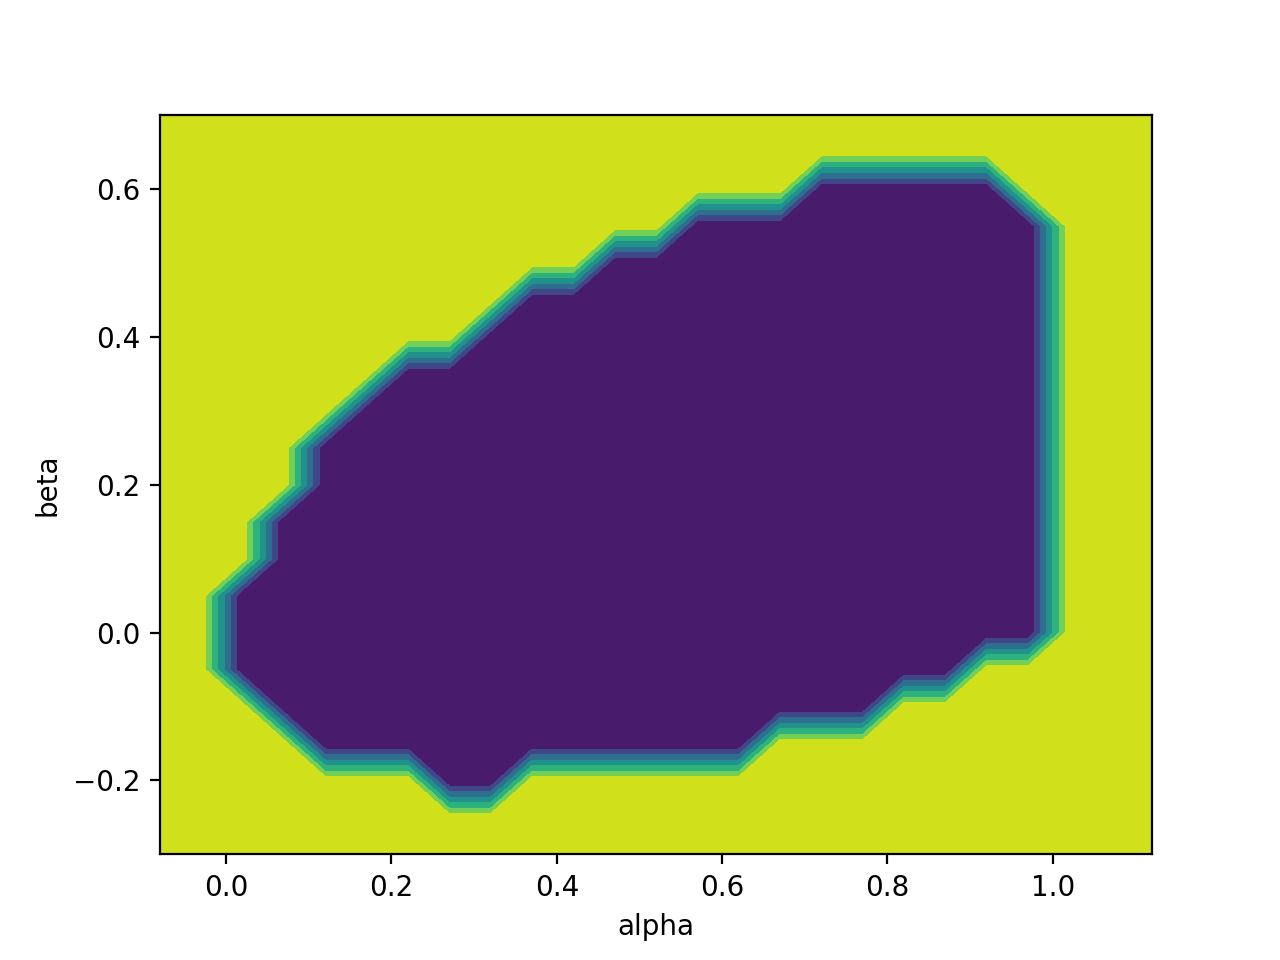
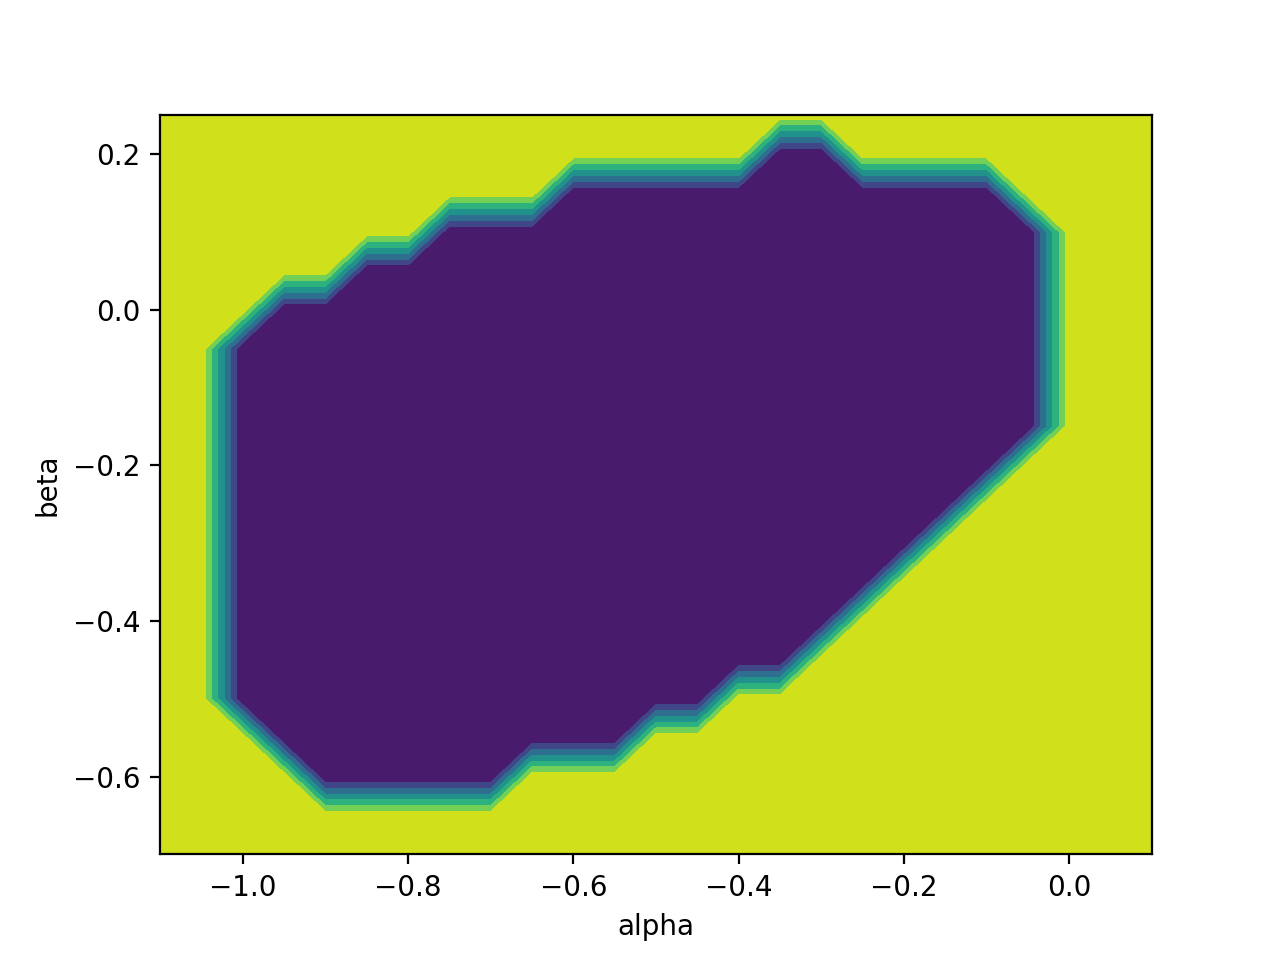
#2 Illustration condition kappa<1

diff --git a/Norme_kappa/kappa.py b/Norme_kappa/kappa.py
@@ -5,12 +5,12 @@ from numpy import sqrt, pi ,exp, cos, sin
 
 def k(alpha, beta):
     rh = np.arange(0,4*pi, 0.05)
-    kap = [(1-2*alpha*(sin(x/2)**2))**2 + (sin(x)**2)*(alpha - 4*beta*(sin(x/2)**2))**2 for x in rh]
+    kap = [(1+2*alpha*(sin(x/2)**2))**2 + (sin(x)**2)*(alpha - 4*beta*(sin(x/2)**2))**2 for x in rh]
     return max(kap)
 
 
-al = np.arange(-0.08,1.13, 0.05)
-be = np.arange(-0.3,0.73, 0.05)
+al = np.arange(-1.1,0.1, 0.05)
+be = np.arange(-0.7,0.3, 0.05)
 
 kappa = [[k(a,b) for a in al] for b in be]
 
